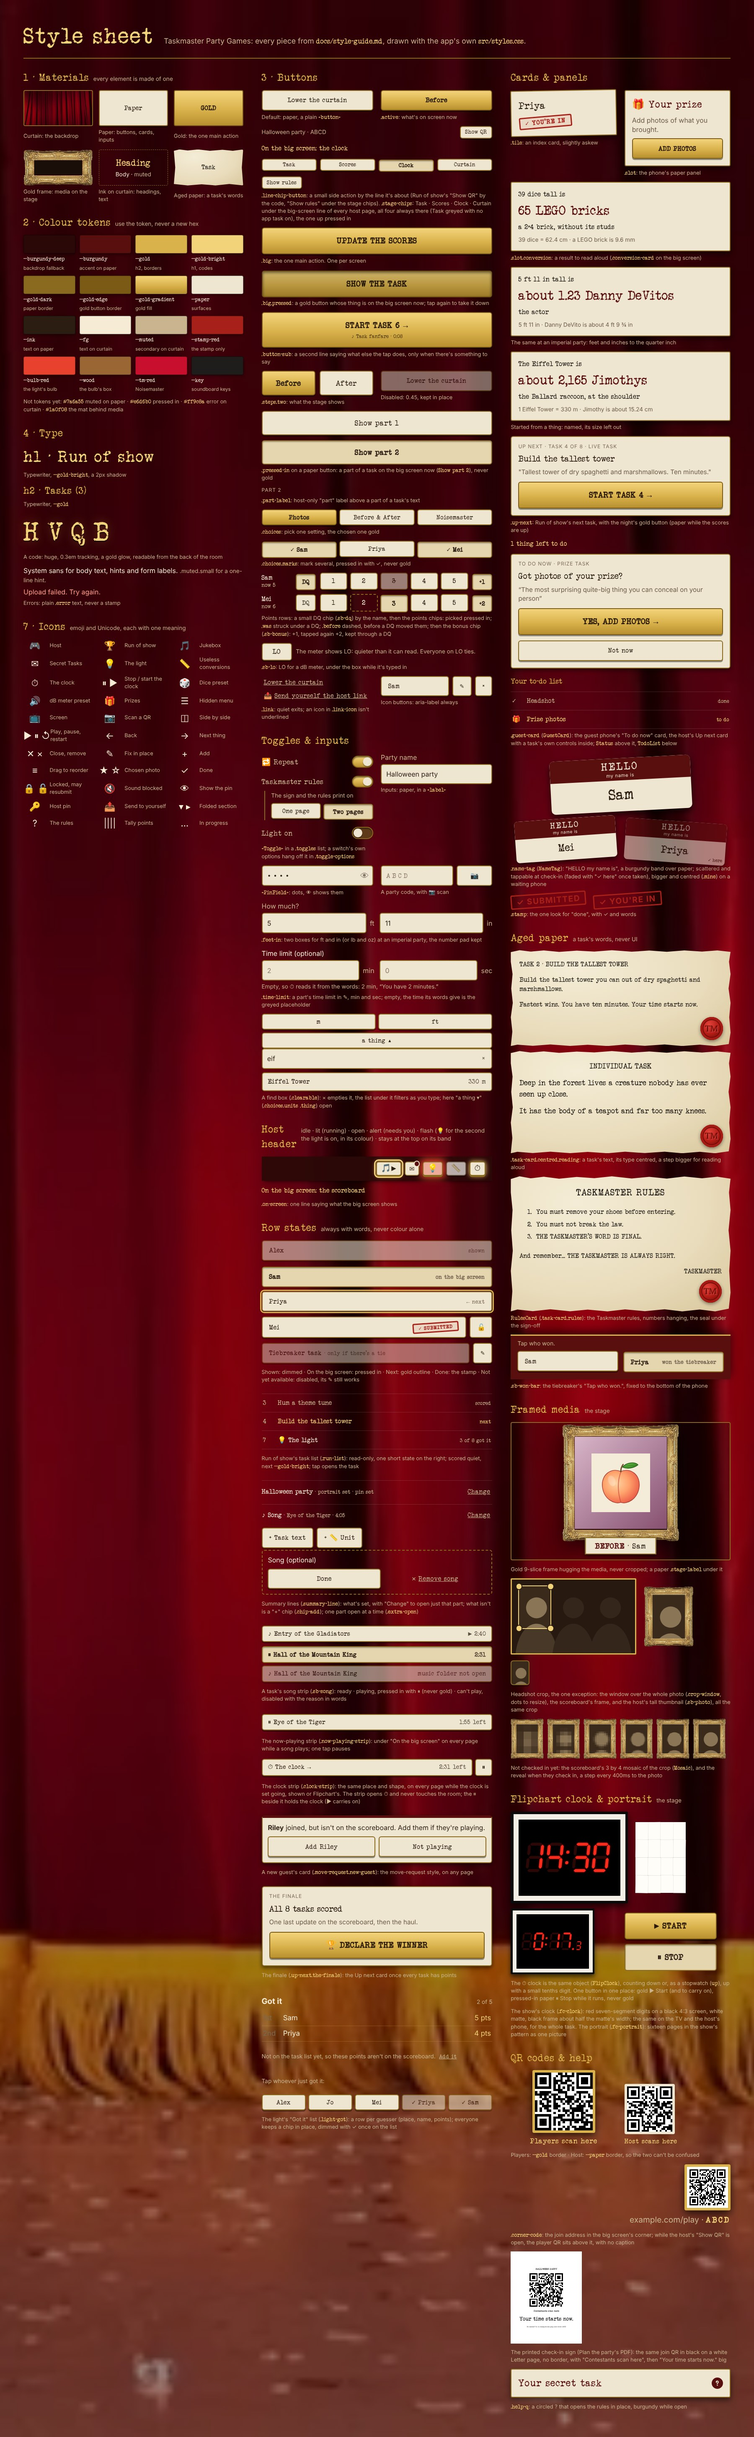
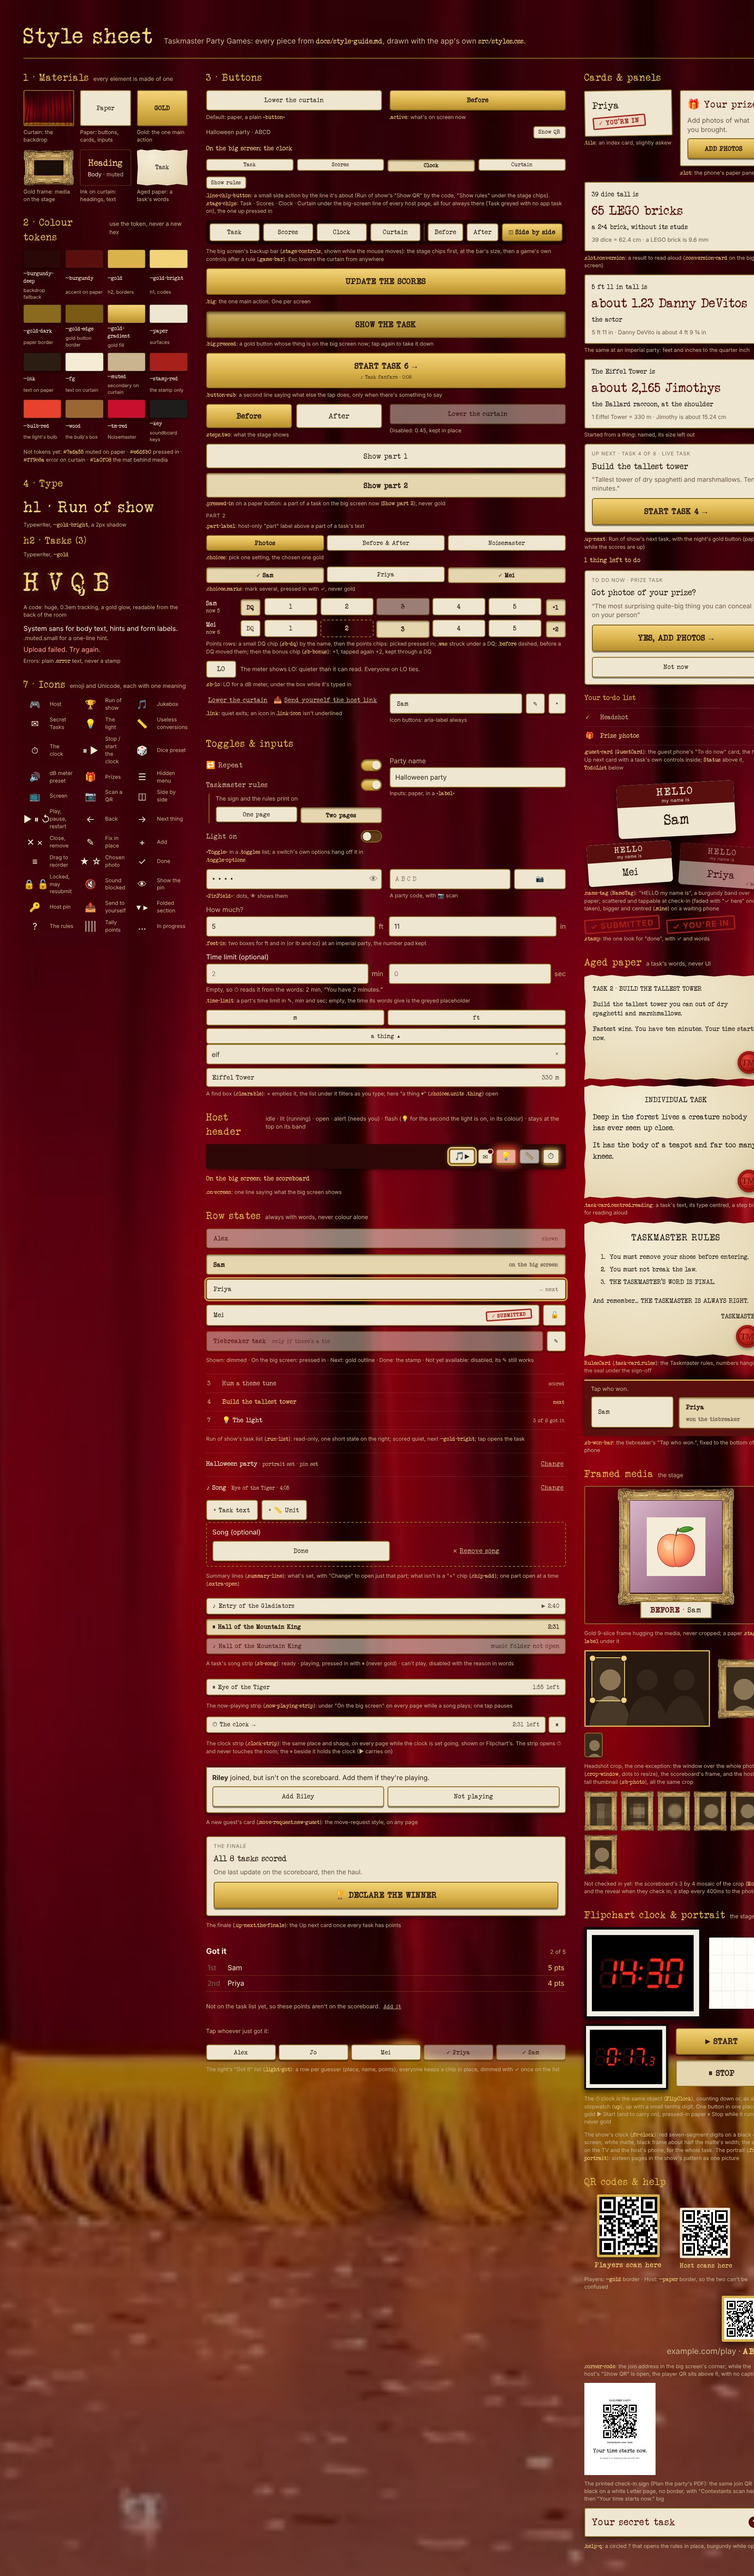
Big screen: the stage chips in its backup bar, and Esc from anywhere
At the TV there was no way out of the clock, the scores, a task's words,
a conversion or a transition: the backup bar and Esc only existed inside
a game. The bar (StageBar) now shows whatever is up, when the mouse moves,
and leads with the same Task · Scores · Clock · Curtain as the host phone;
a game's own controls follow in the same strip (GameBar), without their
own "Lower the curtain". Esc lowers the curtain from anywhere, ending a
transition. Extra screens get neither.

Claude-Session: https://claude.ai/code/session_01Js4JTvH4a5MYrc1yhcbZrv

diff --git a/src/StageBar.tsx b/src/StageBar.tsx
@@ -1,0 +1,49 @@
+import { createContext, useContext, useEffect, useState, type ReactNode } from "react";
+import { createPortal } from "react-dom";
+import { StageChips, onScreenLine } from "./HostRemote";
+import { endSting, setDisplay } from "./session";
+import { stingFiles } from "./sting";
+import { useStageBarVisible } from "./stageBar";
+import type { Session } from "./types";
+
+/** Where a game's own backup controls go: after the stage chips, in the one bar. */
+const Slot = createContext<HTMLElement | null>(null);
+
+/**
+ * The main screen's backup bar, whatever is up: the host phone's stage chips (Task · Scores · Clock · Curtain), then the
+ * game's own controls (see `GameBar`). Hidden until the mouse moves, like the cursor. Esc lowers the curtain from anywhere,
+ * ending a transition, as the Curtain chip does. Extra screens (`viewOnly`) get neither.
+ */
+export function StageBar({ code, session, enabled, children }: { code: string; session: Session; enabled: boolean; children: ReactNode }) {
+  const visible = useStageBarVisible();
+  const [slot, setSlot] = useState<HTMLElement | null>(null);
+  const line = onScreenLine(session);
+  const down = line.startsWith("the curtain");
+  useEffect(() => {
+    if (!enabled) return;
+    const onKey = (e: KeyboardEvent) => {
+      if (e.key !== "Escape" || e.metaKey || e.ctrlKey || e.altKey || down) return;
+      if (e.target instanceof HTMLInputElement || e.target instanceof HTMLTextAreaElement) return;
+      void (stingFiles(session) ? endSting(code) : Promise.resolve()).then(() => setDisplay(code, { step: "curtain" }));
+    };
+    window.addEventListener("keydown", onKey);
+    return () => window.removeEventListener("keydown", onKey);
+  }, [enabled, down, code, session]);
+  return (
+    <Slot.Provider value={slot}>
+      {children}
+      {enabled && (
+        <div className={visible ? "stage-controls show" : "stage-controls"} aria-hidden={!visible}>
+          <StageChips code={code} session={session} line={line} />
+          <span className="game-bar" ref={setSlot} />
+        </div>
+      )}
+    </Slot.Provider>
+  );
+}
+
+/** A game's own backup controls, placed in the stage bar after the chips. */
+export function GameBar({ children }: { children: ReactNode }) {
+  const slot = useContext(Slot);
+  return slot ? createPortal(children, slot) : null;
+}

diff --git a/docs/style-sheet/sheet.tsx b/docs/style-sheet/sheet.tsx
@@ -103,6 +103,12 @@ function Sheet() {
                 <button className="line-chip-button" style={{ justifySelf: "start" }}>Show rules</button>
               </div>
             </Item>
+            <Item cap={<>The big screen's backup bar (<code>.stage-controls</code>, shown while the mouse moves): the stage chips first, at the bar's size, then a game's own controls after a rule (<code>.game-bar</code>). Esc lowers the curtain from anywhere</>}>
+              <div className="stage-controls show" style={{ position: "static", transform: "none", width: "max-content" }}>
+                <div className="stage-chips"><button className="line-chip-button">Task</button><button className="line-chip-button">Scores</button><button className="line-chip-button">Clock</button><button className="line-chip-button">Curtain</button></div>
+                <span className="game-bar"><button>Before</button><button>After</button><button className="active">◫ Side by side</button></span>
+              </div>
+            </Item>
             <Item cap={<><code>.big</code>: the one main action. One per screen</>}><button className="big">Update the scores</button></Item>
             <Item cap={<><code>.big.pressed</code>: a gold button whose thing is on the big screen now; tap again to take it down</>}><button className="big pressed" aria-pressed>Show the task</button></Item>
             <Item cap={<><code>.button-sub</code>: a second line saying what else the tap does, only when there's something to say</>}><button className="big">Start task 6 →<span className="button-sub">♪ Task fanfare · 0:08</span></button></Item>

diff --git a/docs/guest-shots/shots.tsx b/docs/guest-shots/shots.tsx
@@ -421,5 +421,5 @@ const allBulbs = MODES.find((m) => m.id === "all")!.bulbs;
 if (shot === "host-light-flash") window.setTimeout(() => void lightNow(CODE), 1200);
 root.render(shot === "tv-light" ? <main className="stage light-stage"><div className="light-show"><Bulb lit /></div></main> :
   shot === "tv-light-all" ? <main className="stage light-stage"><div className="light-show"><div className="light-bulbs" style={{ gridTemplateColumns: "repeat(3, auto)" }}>
-    {allBulbs.map((b) => <Bulb key={b.trigger.id} lit={b.trigger.id === "stop-smiling" || b.trigger.id === "arm-up"} colour={b.colour} />)}</div></div></main> : shot.startsWith("tv-gate") ? <StageGate code={CODE} session={session as unknown as Session} onRaised={() => {}} onEnd={() => {}} /> : shot.startsWith("tv-") ? <Screen code={CODE} session={session as unknown as Session} viewOnly /> : shot.startsWith("host-") || shot.startsWith("start-host") ? <HostPage /> :
+    {allBulbs.map((b) => <Bulb key={b.trigger.id} lit={b.trigger.id === "stop-smiling" || b.trigger.id === "arm-up"} colour={b.colour} />)}</div></div></main> : shot.startsWith("tv-gate") ? <StageGate code={CODE} session={session as unknown as Session} onRaised={() => {}} onEnd={() => {}} /> : shot.startsWith("tv-") ? <Screen code={CODE} session={session as unknown as Session} viewOnly={!q.get("bar")} /> : shot.startsWith("host-") || shot.startsWith("start-host") ? <HostPage /> :
   shot === "alone-convert" ? <ConverterPage /> : <Play />);

diff --git a/src/games/prize/Stage.tsx b/src/games/prize/Stage.tsx
@@ -3,7 +3,6 @@ import { Curtain } from "../../Curtain";
 import { Framed } from "../../Framed";
 import { SafeImg } from "../../SafeImg";
 import { setDisplay } from "../../session";
-import { useStageBarVisible } from "../../stageBar";
 import type { Display, Session } from "../../types";
 import { haulWinner, prizePhotos } from "./data";
 
@@ -16,9 +15,8 @@ export function Stage({ code, session, display, viewOnly }: { code: string; sess
   return <PrizePhoto name={name} photo={photo}>{!viewOnly && <StageControls code={code} />}</PrizePhoto>;
 }
 
-/** Backup control for the main screen: the host picks every photo, so only Esc or Backspace, to lower the curtain. */
+/** Backup control for the main screen: the host picks every photo, so only Backspace (Esc too), to lower the curtain; the stage chips do the rest. */
 function StageControls({ code }: { code: string }) {
-  const visible = useStageBarVisible();
   const back = () => void setDisplay(code, { step: "curtain" });
   useEffect(() => {
     const onKey = (e: KeyboardEvent) => {
@@ -29,11 +27,7 @@ function StageControls({ code }: { code: string }) {
     window.addEventListener("keydown", onKey);
     return () => window.removeEventListener("keydown", onKey);
   });
-  return (
-    <div className={visible ? "stage-controls show" : "stage-controls"} aria-hidden={!visible}>
-      <button onClick={back} tabIndex={visible ? 0 : -1}>Lower the curtain</button>
-    </div>
-  );
+  return null;
 }
 
 /**

diff --git a/src/Screen.tsx b/src/Screen.tsx
@@ -18,6 +18,7 @@ import type { Player, Session } from "./types";
 import { stingFiles } from "./sting";
 import { lightOf } from "./light/data";
 import { StingStage } from "./StingStage";
+import { StageBar } from "./StageBar";
 import { rulesOf } from "./rules";
 import { RulesStage } from "./scoreboard/RulesSetup";
 import { stingPictureUrl } from "./stingPictures";
@@ -44,6 +45,10 @@ export function screenState(session: Session) {
 export function Screen({ code, session, viewOnly = false, footer }: {
   code: string; session: Session; viewOnly?: boolean; footer?: React.ReactNode;
 }) {
+  return <StageBar code={code} session={session} enabled={!viewOnly}><ScreenStage code={code} session={session} viewOnly={viewOnly} footer={footer} /></StageBar>;
+}
+
+function ScreenStage({ code, session, viewOnly, footer }: { code: string; session: Session; viewOnly: boolean; footer?: React.ReactNode }) {
   const { game, display, onStage } = screenState(session);
   const players = Object.entries(session.players ?? {});
 

diff --git a/src/games/beforeAfter/StageControls.tsx b/src/games/beforeAfter/StageControls.tsx
@@ -1,3 +1,4 @@
+import { GameBar } from "../../StageBar";
 import { useEffect } from "react";
 import { patchDisplay, setDisplay } from "../../session";
 import { useStageBarVisible } from "../../stageBar";
@@ -52,7 +53,7 @@ export function StageControls({ code, display, hasVideo }: { code: string; displ
   });
 
   return (
-    <div className={visible ? "stage-controls show" : "stage-controls"} aria-hidden={!visible}>
+    <GameBar>
       {!review && available.map((s) => (
         <button key={s} className={s === step ? "active" : ""} onClick={() => go(s)} tabIndex={visible ? 0 : -1}>{LABEL[s]}</button>
       ))}
@@ -64,7 +65,6 @@ export function StageControls({ code, display, hasVideo }: { code: string; displ
           <button onClick={() => void patchDisplay(code, { playing: true, restartAt: Date.now() })} tabIndex={visible ? 0 : -1}>↺ Restart</button>
         </>
       )}
-      <button onClick={back} tabIndex={visible ? 0 : -1}>Lower the curtain</button>
-    </div>
+    </GameBar>
   );
 }

diff --git a/src/games/flipchart/Stage.tsx b/src/games/flipchart/Stage.tsx
@@ -1,3 +1,4 @@
+import { GameBar } from "../../StageBar";
 import { useEffect } from "react";
 import { Framed } from "../../Framed";
 import { Review } from "../../Review";
@@ -89,7 +90,7 @@ function StageControls({ code, session, display }: { code: string; session: Sess
 
   const tab = visible ? 0 : -1;
   return (
-    <div className={visible ? "stage-controls show" : "stage-controls"} aria-hidden={!visible}>
+    <GameBar>
       {uid && display.step === "portrait" && (
         <>
           <button disabled={!prev} onClick={() => show(prev)} tabIndex={tab}>Previous</button>
@@ -97,7 +98,6 @@ function StageControls({ code, session, display }: { code: string; session: Sess
           <button onClick={() => void setDisplay(code, { step: "portraits" })} tabIndex={tab}>◫ Everyone</button>
         </>
       )}
-      <button onClick={back} tabIndex={tab}>Lower the curtain</button>
-    </div>
+    </GameBar>
   );
 }

diff --git a/src/games/photos/Stage.tsx b/src/games/photos/Stage.tsx
@@ -1,3 +1,4 @@
+import { GameBar } from "../../StageBar";
 import { useEffect } from "react";
 import { Framed } from "../../Framed";
 import { Review } from "../../Review";
@@ -62,7 +63,7 @@ function StageControls({ code, session, display }: { code: string; session: Sess
 
   const tab = visible ? 0 : -1;
   return (
-    <div className={visible ? "stage-controls show" : "stage-controls"} aria-hidden={!visible}>
+    <GameBar>
       {uid && (
         <>
           <button disabled={!prev} onClick={() => show(prev)} tabIndex={tab}>Previous</button>
@@ -70,7 +71,6 @@ function StageControls({ code, session, display }: { code: string; session: Sess
           <button onClick={() => void setDisplay(code, { step: "grid" })} tabIndex={tab}>◫ Everyone</button>
         </>
       )}
-      <button onClick={back} tabIndex={tab}>Lower the curtain</button>
-    </div>
+    </GameBar>
   );
 }

diff --git a/src/styles.css b/src/styles.css
@@ -535,6 +535,12 @@ body.idle-cursor .stage { cursor: none; }
 }
 .stage-controls.show { opacity: 1; pointer-events: auto; }
 .stage-controls button { padding: 0.5rem 0.9rem; }
+/* the stage chips lead the bar, at its size; a game's own controls follow, after a rule */
+.stage-controls:has(.stage-chips) { width: max-content; max-width: calc(100vw - 2rem); }
+.stage-controls .stage-chips { margin: 0; grid-template-columns: repeat(4, 7.5rem); }
+.stage-controls .stage-chips .line-chip-button { font-size: 1rem; padding: 0.5rem 0.9rem; }
+.stage-controls .game-bar { display: flex; flex-wrap: wrap; gap: 0.5rem; }
+.stage-controls .game-bar:not(:empty) { padding-left: 0.5rem; border-left: 1px solid var(--gold-dark); }
 
 /* jukebox */
 .jukebox-chip { position: fixed; left: 1rem; bottom: 1rem; z-index: 3; display: flex; gap: 0.4rem; align-items: center; flex-wrap: wrap; max-width: 60vw;

diff --git a/src/games/headshots/Stage.tsx b/src/games/headshots/Stage.tsx
@@ -1,3 +1,4 @@
+import { GameBar } from "../../StageBar";
 import { useEffect } from "react";
 import { Framed } from "../../Framed";
 import { Review } from "../../Review";
@@ -62,7 +63,7 @@ function StageControls({ code, session, display }: { code: string; session: Sess
 
   const tab = visible ? 0 : -1;
   return (
-    <div className={visible ? "stage-controls show" : "stage-controls"} aria-hidden={!visible}>
+    <GameBar>
       {id && (
         <>
           <button disabled={!prev} onClick={() => show(prev)} tabIndex={tab}>Previous</button>
@@ -70,7 +71,6 @@ function StageControls({ code, session, display }: { code: string; session: Sess
           <button onClick={() => void showEveryone(code)} tabIndex={tab}>◫ Everyone</button>
         </>
       )}
-      <button onClick={back} tabIndex={tab}>Lower the curtain</button>
-    </div>
+    </GameBar>
   );
 }

diff --git a/src/games/box/Stage.tsx b/src/games/box/Stage.tsx
@@ -1,3 +1,4 @@
+import { GameBar } from "../../StageBar";
 import { useEffect, useState } from "react";
 import { Curtain } from "../../Curtain";
 import { setDisplay } from "../../session";
@@ -126,11 +127,11 @@ function StageControls({ code, round, nameOf }: { code: string; round: BoxRound 
 
   const tab = visible ? 0 : -1;
   return (
-    <div className={visible ? "stage-controls show" : "stage-controls"} aria-hidden={!visible}>
+    <GameBar>
       {round && keys.map((key) => (
         <button key={key} disabled={!canOpen(key)} onClick={() => open(key)} tabIndex={tab}>Open {nameOf(holderOf(round, key))}'s box</button>
       ))}
       <button onClick={back} tabIndex={tab}>← Players</button>
-    </div>
+    </GameBar>
   );
 }

diff --git a/src/HostRemote.tsx b/src/HostRemote.tsx
@@ -85,7 +85,7 @@ export function OnScreen({ code, session, chip, noClock }: { code: string; sessi
  * task is on. The one up now is pressed in, read from the status line so the two always agree, and tapping it does nothing:
  * Curtain is the way down, never a second tap (a clock that hid on one stranded a host's first party). Each ends a transition first.
  */
-function StageChips({ code, session, line }: { code: string; session: Session; line: string }) {
+export function StageChips({ code, session, line }: { code: string; session: Session; line: string }) {
   const game = activeGame(session);
   const holds = !!game?.holdsScreen?.(session);
   const step = session.display?.step ?? "list";
